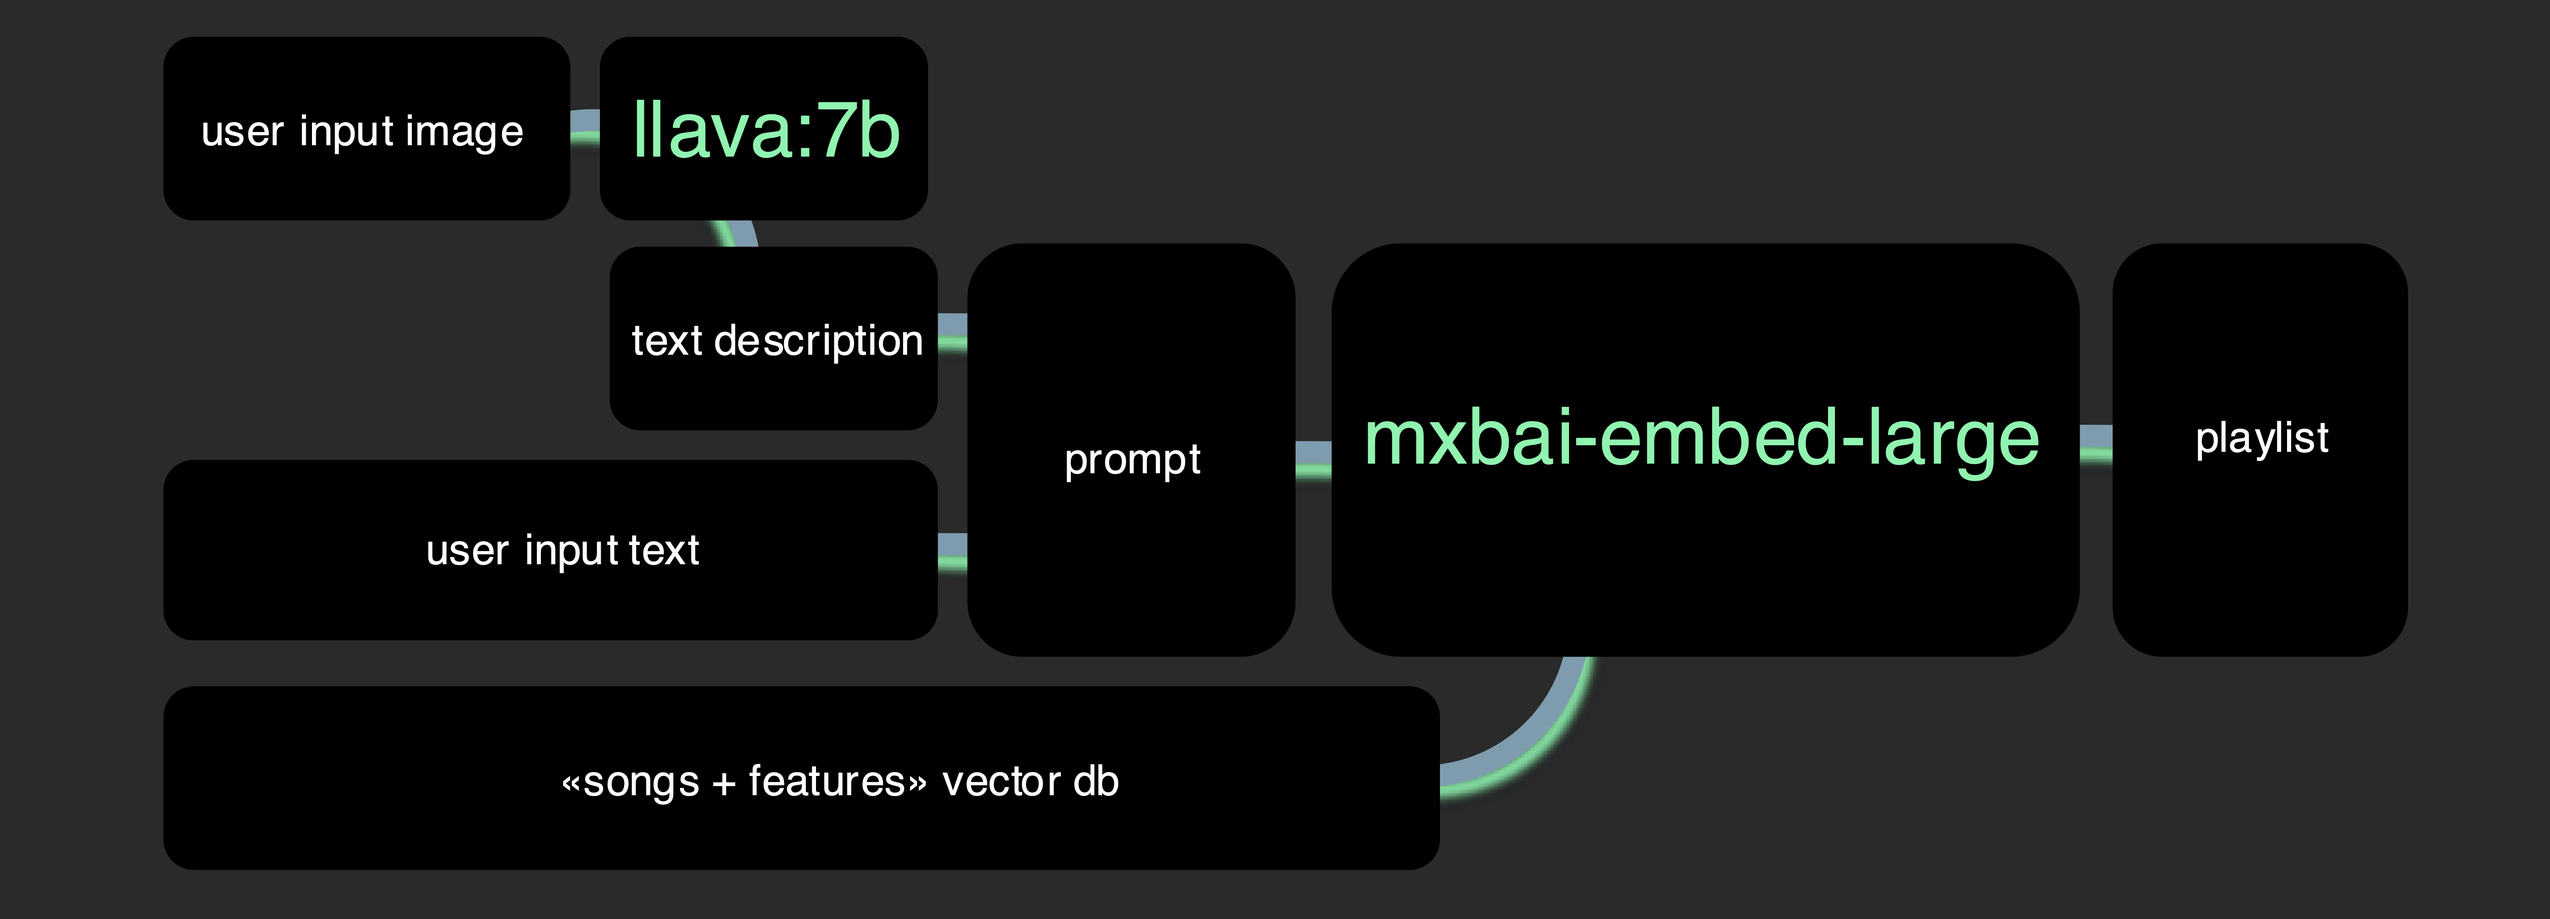
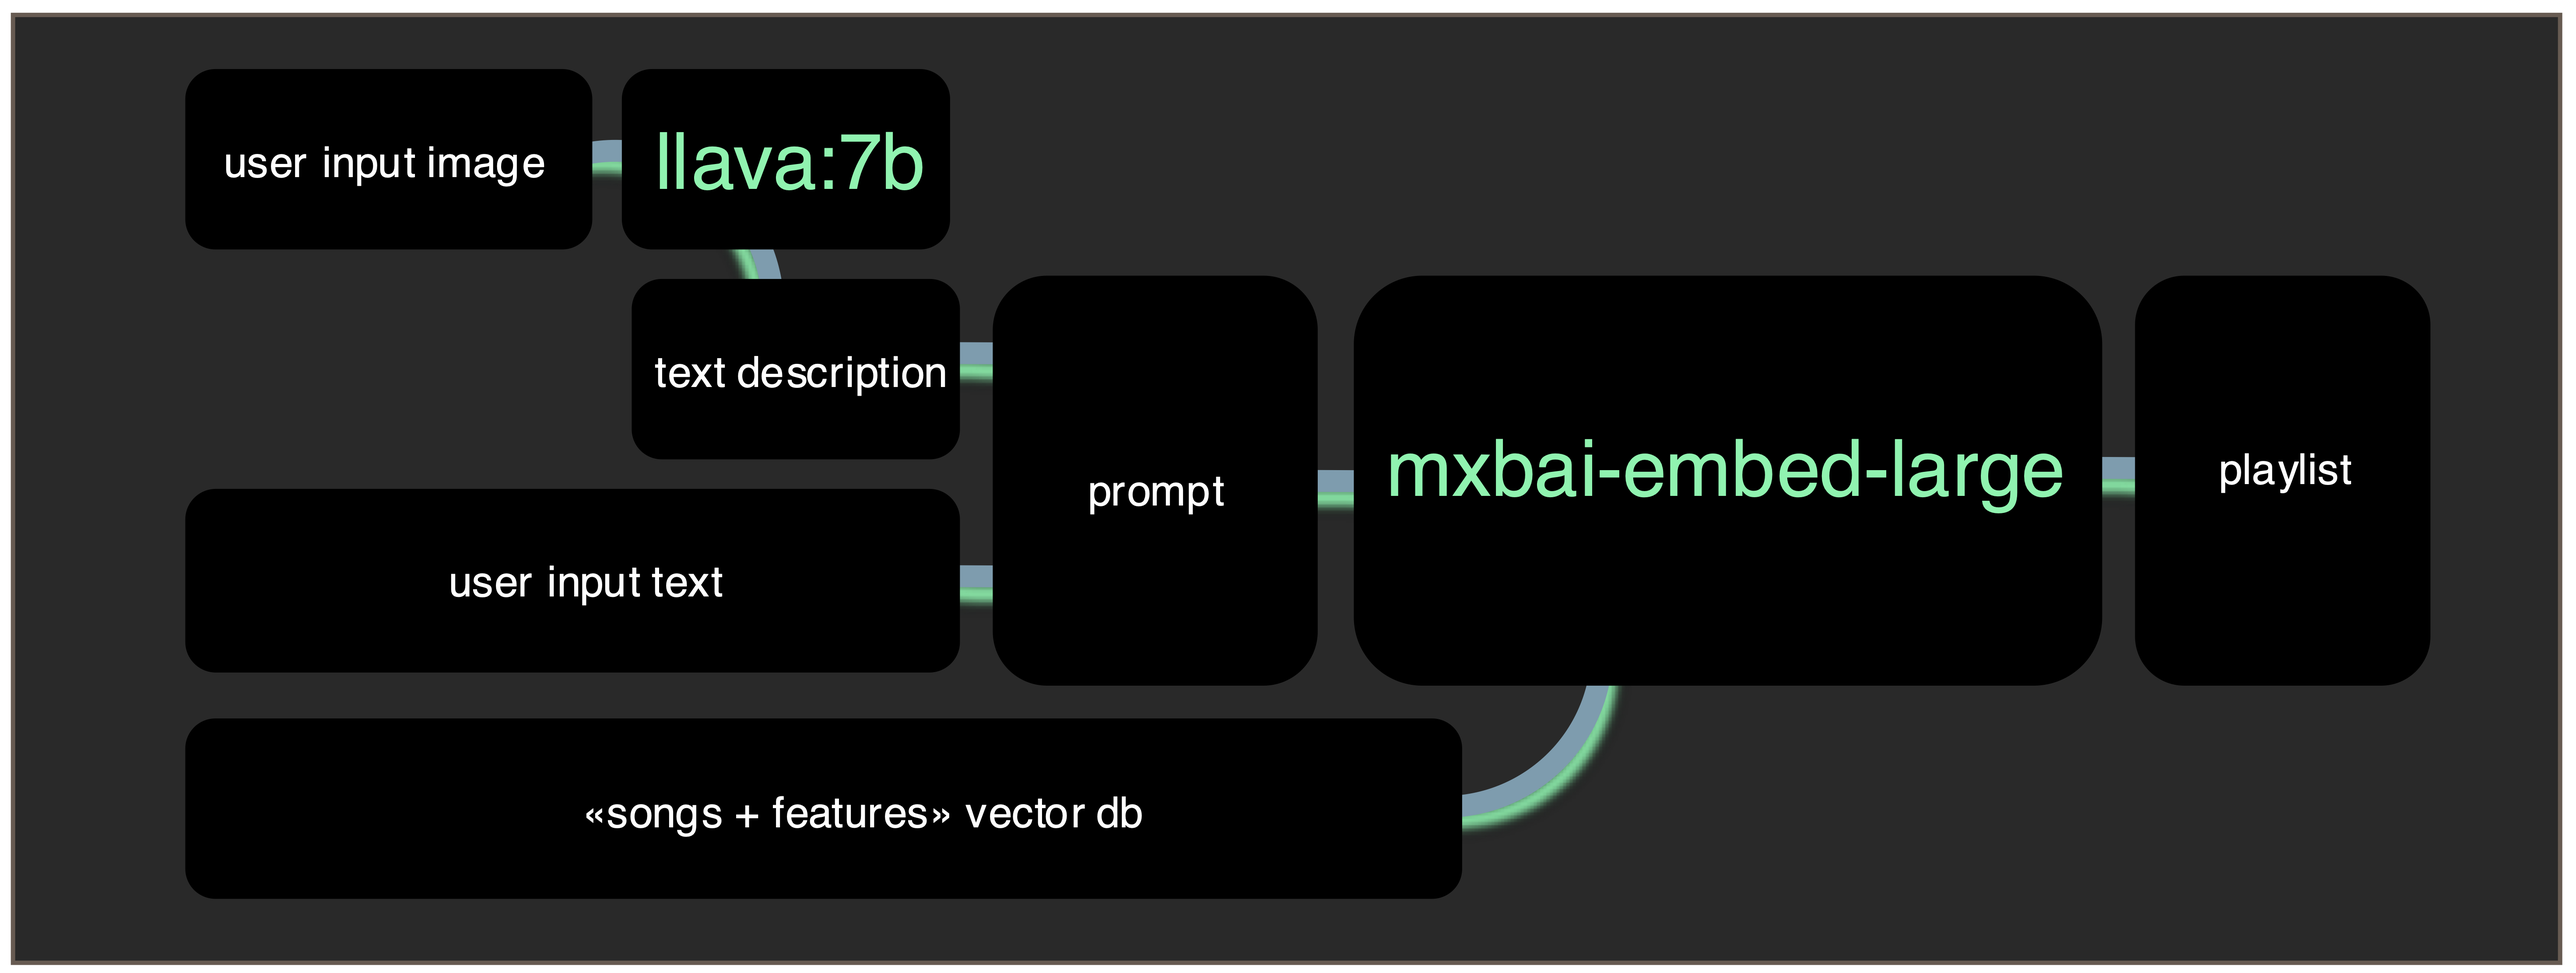
update to the README + small changes to paths

Changed region(s): [[0.0, 0.0, 1.0, 1.0], [0.2186, 0.8044, 0.4372, 0.8663], [0.1561, 0.5878, 0.2811, 0.6188]]

diff --git a/README.md b/README.md
@@ -5,6 +5,9 @@
 ## About
 **PlaylistRAGulator** is a RAG AI app that matches your vibe. Drop in some text or an image, and it’ll curate a playlist that perfectly fits the mood. Effortless music discovery, one vibe at a time.
 
+## Local Execution
+**PlaylistRAGulator** is fully containerized using Docker, ensuring a seamless setup with minimal effort. All models run locally through **Ollama**, providing a secure and efficient environment. Once the Docker container is built, no additional installation is required—everything you need is bundled inside the container.
+
 ## How to Use
 
 ### 1. Docker Setup
@@ -76,8 +79,11 @@ The inputs can be found in the folder `data/user_inputs`.
 
 1. **Image Analysis:** If an image is provided, it is processed by the vision model (`llava:7b`) to generate a descriptive text that captures the atmosphere and mood.
 2. **Prompt Generation:** This description is combined with a user-provided list of adjectives (from `data/user_inputs/adjectives.csv`) to create a detailed prompt.
-3. **Music Matching:** The prompt is used to query the vector database (`chroma_db`) that contains embeddings of songs, selecting tracks that best match the mood.
+3. **Music Matching:** The prompt is used to query the vector database (`data/chroma_db`) that contains embeddings of songs, selecting tracks that best match the mood.
 
+Here you can find an example how the data flows into the pipeline.
+
+![Flow Diagram](doc/example.png)
 
 ---
 Enjoy discovering music that matches your vibe with **PlaylistRAGulator**! 🎶
